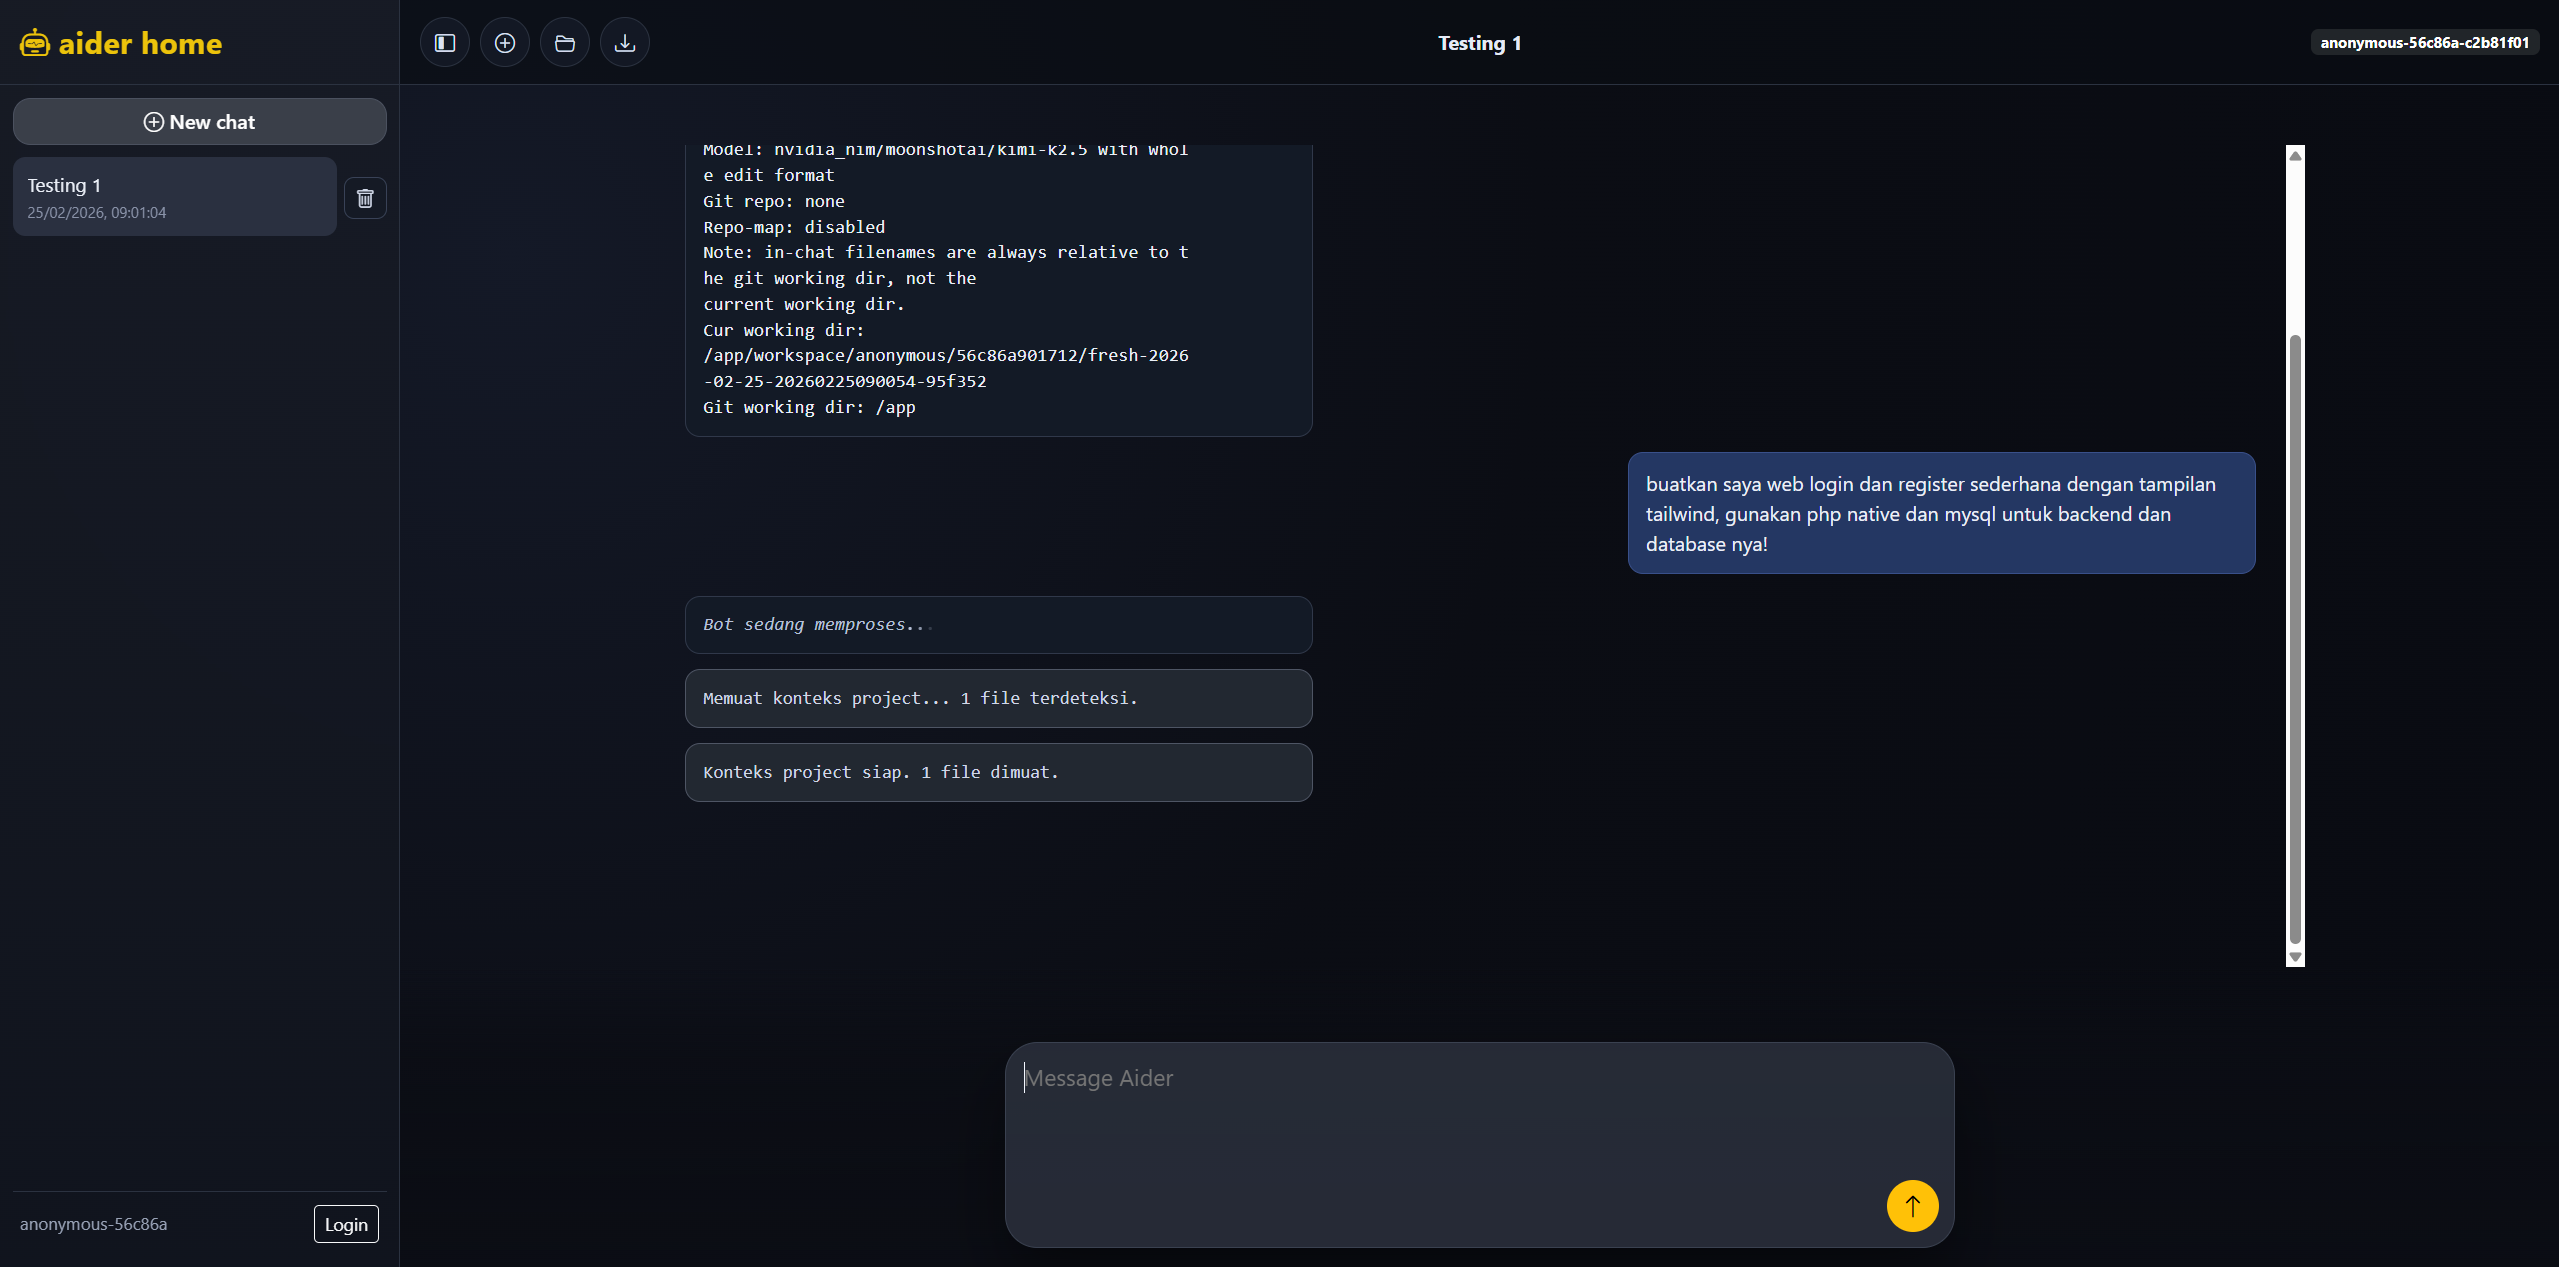
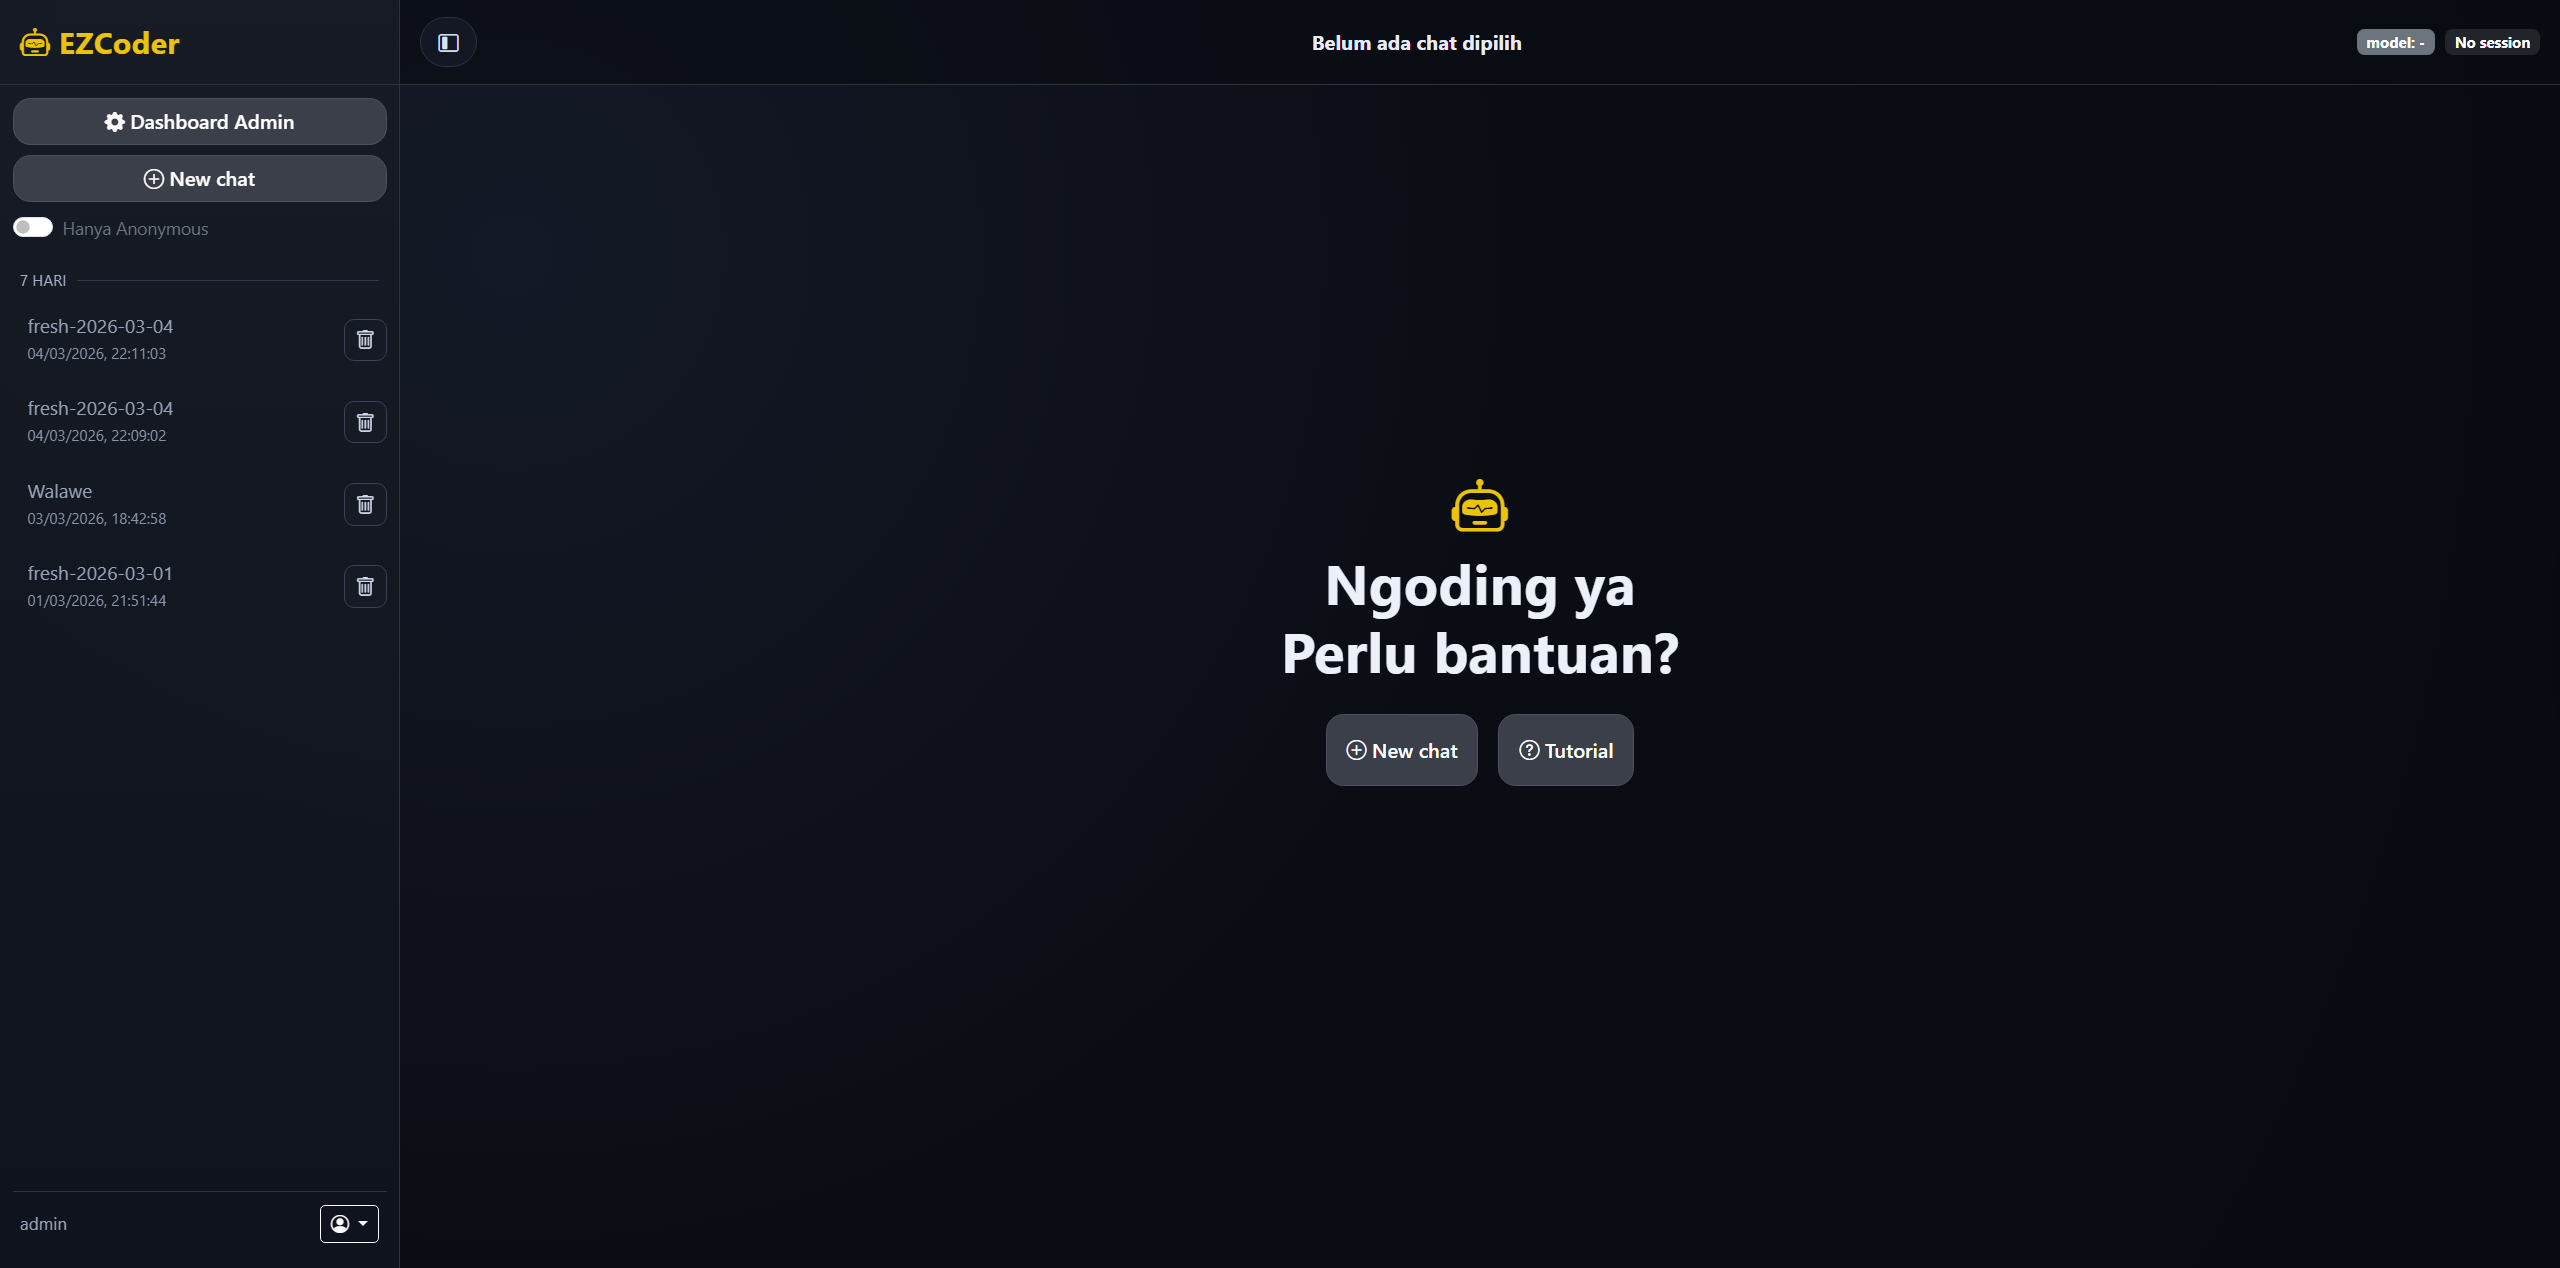
fix ui

diff --git a/assets/css/style.css b/assets/css/style.css
@@ -114,12 +114,14 @@ h6 {
   left: 0;
   bottom: 0;
   width: 300px;
-  transition: all ease-in-out 0.5s;
   z-index: 9997;
-  transition: all 0.5s;
   padding: 0 15px;
   background: #5900ff;
   overflow-y: auto;
+}
+
+#header.active {
+  transform: translateX(0);
 }
 
 #header .profile img {
@@ -178,7 +180,14 @@ h6 {
 
 @media (max-width: 1199px) {
   #header {
-    left: -300px;
+    /* Off-canvas (smooth open/close) */
+    left: 0;
+    transform: translateX(-100%);
+    opacity: 0;
+    visibility: hidden;
+    pointer-events: none;
+    will-change: transform, opacity;
+    transition: transform 0.35s ease, opacity 0.25s ease, visibility 0s linear 0.35s;
   }
 
   #main {
@@ -261,14 +270,23 @@ h6 {
   border-radius: 50px;
   cursor: pointer;
 }
+/* .mobile-nav-toggle:hover {
+  background-color: #8342fc;
+  color: #fff;
+} */
 
 .mobile-nav-active {
   overflow: hidden;
+  transition: all 0.4s;
 }
 
 .mobile-nav-active #header {
-  left: 0;
   z-index: 9999;
+  transform: translateX(0);
+  opacity: 1;
+  visibility: visible;
+  pointer-events: auto;
+  transition: transform 0.35s ease, opacity 0.25s ease, visibility 0s;
 }
 
 /* Header toggle group: dark mode + mobile nav, side by side */

diff --git a/index.html b/index.html
@@ -870,10 +870,10 @@ This is the final assignment of (Belajar Pemrograman Dasar Web) from Dicoding In
             <div class="portfolio-wrap">
               <img src="assets/img/portfolio/Aider-Web.png" class="img-fluid" alt="">
               <div class="portfolio-info">
-                <h4>Aider Coding Web</h4>
+                <h4>EZcoder</h4>
                 <p>App</p>
                 <div class="portfolio-links">
-                  <a href="assets/img/portfolio/Aider-Web.png" data-gallery="portfolioGallery" class="portfolio-lightbox" title="Aider is a local AI assistant that helps you with your projects."><i class="bx bx-zoom-in"></i></a>
+                  <a href="assets/img/portfolio/Aider-Web.png" data-gallery="portfolioGallery" class="portfolio-lightbox" title="EZCoder is a web-based coding AI assistant that helps you with your web development projects."><i class="bx bx-zoom-in"></i></a>
                   <a href="https://ai.trisnahome.my.id" class="portfolio-details-lightbox" data-glightbox="type: external" title="Portfolio Details" target="_blank"><i class="bx bx-link"></i></a>
                 </div>
               </div>
